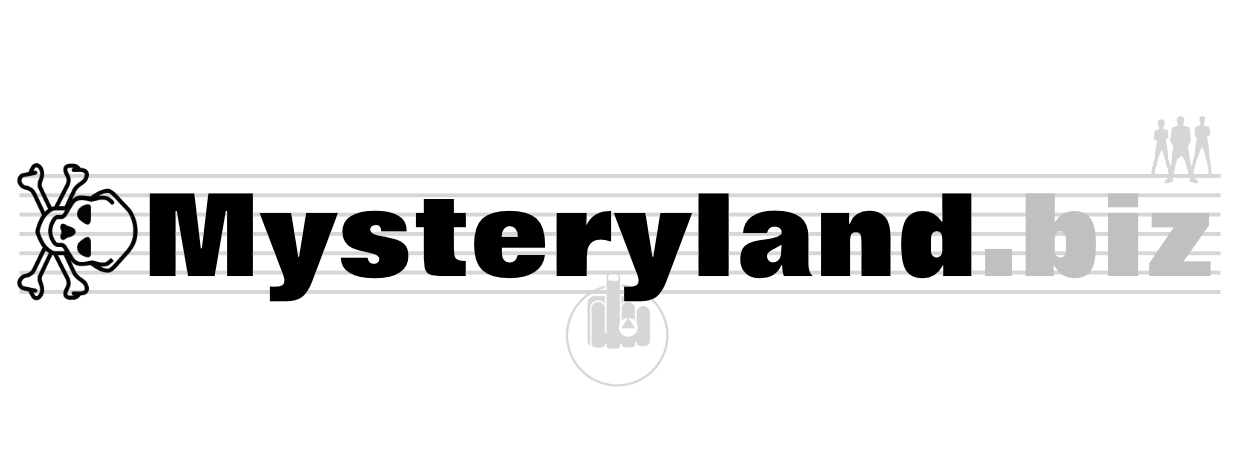
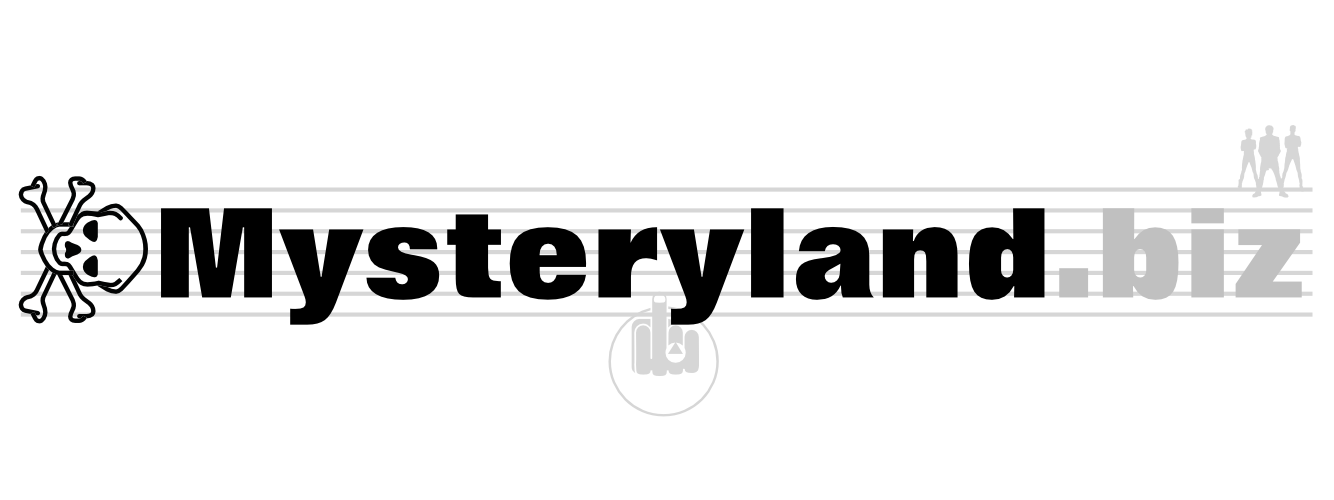
Aktualisiere das Mysterland-Bild und passe den Kommentar zur README.md an

diff --git a/README.md b/README.md
@@ -1,6 +1,6 @@
 # 📓 Event-Übersicht – So 25 Mai 2025 22:24:44 CEST
 
-![Mysterland](/public/mysteryland.svg)
+![Mysterland](/public/mysteryland.png)
 
 ## 📆 2026
 
